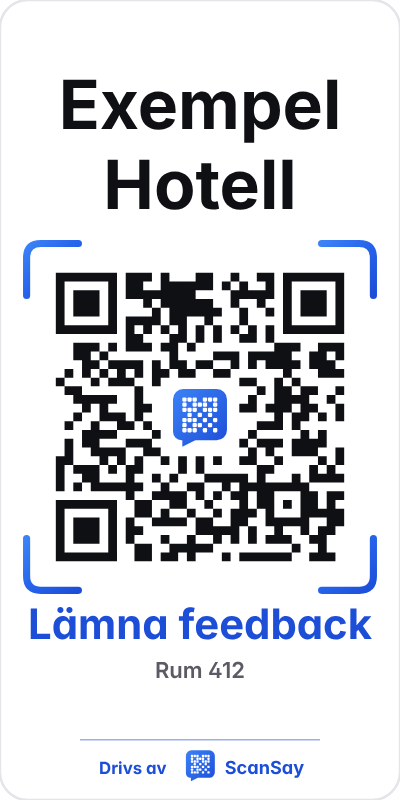
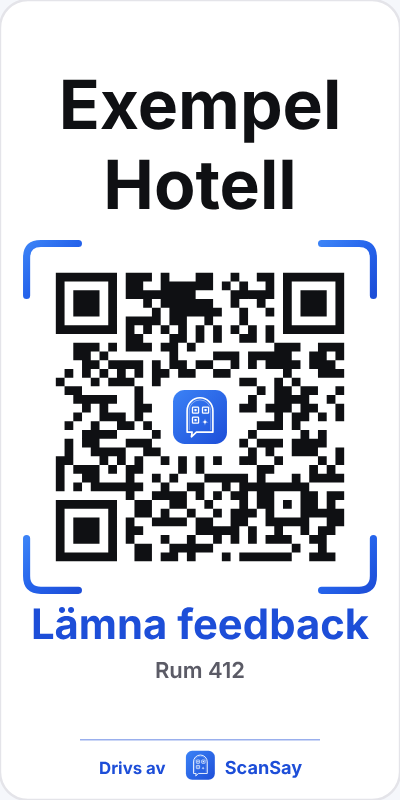
Add files via upload

diff --git a/form/index.html b/form/index.html
@@ -188,10 +188,10 @@ body.senior .scale button svg{width:54px;height:54px}
 .linkb{background:none;border:0;color:#1D4ED8;font-weight:700;font-size:14.5px;padding:6px 0;cursor:pointer;text-align:left}
 .photo{margin-top:10px}
 .kinds{display:grid;grid-template-columns:repeat(4,1fr);gap:8px;margin:6px 0 4px}.kinds button{display:flex;flex-direction:column;align-items:center;gap:4px;padding:11px 6px;border:1.5px solid #E5E7EB;border-radius:14px;background:#fff;font:inherit;font-weight:700;font-size:13.5px;color:#0A0F1C;cursor:pointer}.kinds button span{font-size:22px;line-height:1}.kinds button.on{border-color:#1D4ED8;background:#EFF6FF;box-shadow:0 0 0 3px rgba(29,78,216,.12)}.scale .rn{display:block;font-size:13px;margin-top:2px;color:#1D4ED8}@media(max-width:380px){.kinds{grid-template-columns:repeat(2,1fr)}}
-</style></head>
+</style><style id="ss-white">html body .bar:not(#q1){background:#FFFFFF!important;color:#0A0F1C!important;border-bottom:1px solid #E6EAF2!important;box-shadow:none!important}html body .bar:not(#q1) #slog{color:#5B6476!important;font-family:"Italiana",Georgia,serif;font-style:normal;letter-spacing:.1em}html body .bar:not(#q1) .lang{background:#F5F7FB!important;border-color:#E1E6F0!important}html body .bar:not(#q1) .lang button{color:#3A4356!important}html body .bar:not(#q1) .lang button.on{background:#1D4ED8!important;color:#fff!important}@font-face{font-family:"Italiana";src:url(../fonts/italiana.woff) format("woff")}</style></head>
 <body>
 <div class="bar"><div class="in">
-  <div class="word"><b class="lrow"><svg class="ssmark" width="30" height="30" viewBox="0 0 64 64" aria-hidden="true"><defs><linearGradient id="qgq14" x1="0" y1="0" x2="1" y2="1"><stop offset="0" stop-color="#3B82F6"/><stop offset="1" stop-color="#1D4ED8"/></linearGradient></defs><path d="M14 2h36a11 11 0 0 1 11 11v33a11 11 0 0 1-11 11H27l-14 7v-7h-1A9 9 0 0 1 3 48V13A11 11 0 0 1 14 2z" fill="url(#qgq14)"/><rect x="13.0" y="11.0" width="4.6" height="4.6" rx="1.2" fill="#FFFFFF"/><rect x="18.5" y="11.0" width="4.6" height="4.6" rx="1.2" fill="#FFFFFF"/><rect x="24.0" y="11.0" width="4.6" height="4.6" rx="1.2" fill="#FFFFFF"/><rect x="13.0" y="16.5" width="4.6" height="4.6" rx="1.2" fill="#FFFFFF"/><rect x="24.0" y="16.5" width="4.6" height="4.6" rx="1.2" fill="#FFFFFF"/><rect x="13.0" y="22.0" width="4.6" height="4.6" rx="1.2" fill="#FFFFFF"/><rect x="18.5" y="22.0" width="4.6" height="4.6" rx="1.2" fill="#FFFFFF"/><rect x="24.0" y="22.0" width="4.6" height="4.6" rx="1.2" fill="#FFFFFF"/><rect x="35.0" y="11.0" width="4.6" height="4.6" rx="1.2" fill="#FFFFFF"/><rect x="40.5" y="11.0" width="4.6" height="4.6" rx="1.2" fill="#FFFFFF"/><rect x="46.0" y="11.0" width="4.6" height="4.6" rx="1.2" fill="#FFFFFF"/><rect x="35.0" y="16.5" width="4.6" height="4.6" rx="1.2" fill="#FFFFFF"/><rect x="46.0" y="16.5" width="4.6" height="4.6" rx="1.2" fill="#FFFFFF"/><rect x="35.0" y="22.0" width="4.6" height="4.6" rx="1.2" fill="#FFFFFF"/><rect x="40.5" y="22.0" width="4.6" height="4.6" rx="1.2" fill="#FFFFFF"/><rect x="46.0" y="22.0" width="4.6" height="4.6" rx="1.2" fill="#FFFFFF"/><rect x="13.0" y="33.0" width="4.6" height="4.6" rx="1.2" fill="#FFFFFF"/><rect x="18.5" y="33.0" width="4.6" height="4.6" rx="1.2" fill="#FFFFFF"/><rect x="24.0" y="33.0" width="4.6" height="4.6" rx="1.2" fill="#FFFFFF"/><rect x="13.0" y="38.5" width="4.6" height="4.6" rx="1.2" fill="#FFFFFF"/><rect x="24.0" y="38.5" width="4.6" height="4.6" rx="1.2" fill="#FFFFFF"/><rect x="13.0" y="44.0" width="4.6" height="4.6" rx="1.2" fill="#FFFFFF"/><rect x="18.5" y="44.0" width="4.6" height="4.6" rx="1.2" fill="#FFFFFF"/><rect x="24.0" y="44.0" width="4.6" height="4.6" rx="1.2" fill="#FFFFFF"/><rect x="35.0" y="33.0" width="4.6" height="4.6" rx="1.2" fill="#FFFFFF"/><rect x="46.0" y="33.0" width="4.6" height="4.6" rx="1.2" fill="#FFFFFF"/><rect x="40.5" y="38.5" width="4.6" height="4.6" rx="1.2" fill="#FFFFFF"/><rect x="35.0" y="44.0" width="4.6" height="4.6" rx="1.2" fill="#FFFFFF"/><rect x="29.5" y="27.5" width="4.6" height="4.6" rx="1.2" fill="#FFFFFF"/><rect x="40.5" y="27.5" width="4.6" height="4.6" rx="1.2" fill="#FFFFFF"/><rect x="29.5" y="38.5" width="4.6" height="4.6" rx="1.2" fill="#FFFFFF"/><rect x="46.0" y="44.0" width="4.6" height="4.6" rx="1.2" fill="#FFFFFF"/><rect x="29.5" y="16.5" width="4.6" height="4.6" rx="1.2" fill="#FFFFFF"/><rect x="18.5" y="27.5" width="4.6" height="4.6" rx="1.2" fill="#FFFFFF"/></svg><span>Scan</span><span class="say">Say</span></b><i id="slog">Skanna. Säg det.</i></div>
+  <div class="word"><b class="lrow"><img class="sslogo" src="../brand/scansay-logo.svg" alt="ScanSay" width="149" height="32"></b><i id="slog">Skanna. Säg det.</i></div>
   <div class="lang" role="group" aria-label="Språk / Language"><button type="button" data-l="sv">SV</button><button type="button" data-l="en">EN</button></div>
 </div></div>
 <div class="wrap">
@@ -235,7 +235,7 @@ window.SSASP=i=>M[i]||D})();
 .asr .st button.on{color:#fff;border-color:transparent}
 .asr .st.v1 button.on{background:#DC2626}.asr .st.v2 button.on{background:#EA580C}.asr .st.v3 button.on{background:#CA8A04}.asr .st.v4 button.on{background:#65A30D}.asr .st.v5 button.on{background:#15803D}
 .kinds button.on{background:#1D4ED8!important;border-color:#1D4ED8!important;color:#fff!important}
-.prog i{background:linear-gradient(90deg,#1D4ED8,#22C55E,#C8F542)!important}
+.prog i{background:linear-gradient(90deg,#1D4ED8,#22C55E,#E4002B)!important}
 .spamn{margin:8px 0 4px;padding:10px 12px;border-radius:12px;background:#FFFBEB;border:1px solid #FDE68A;color:#78350F;font-size:13.5px;line-height:1.45}
 .spamn b{color:#78350F}
 @media(max-width:380px){.asr .st button{width:29px;height:29px;font-size:15px}}
@@ -512,7 +512,7 @@ function render(){
   const head=`<div class="place"><span class="ic">${esc(c.ic)}</span><div><small class="co">${esc(tl(c.c))}${c.g&&tl(c.g)!==tl(c.c)?' · '+esc(tl(c.g)):''}</small><b>${esc(secN)} › ${esc(tl(c.p))}</b><small>${t.today} ${hm}</small></div></div>`;
   if(st.done){$('app').innerHTML=head+`<div class="card done"><div class="ok"><svg width="30" height="30" viewBox="0 0 24 24"><path d="M5 12.5l4.5 4.5L19 7.5" fill="none" stroke="currentColor" stroke-width="2.6" stroke-linecap="round" stroke-linejoin="round"/></svg></div>
     <h1>${st.name.trim()?t.thxn+esc(st.name.trim().split(' ')[0])+'!':t.thx}</h1><p class="lead">${t.got}</p><div class="case">${st.ref}</div><p class="lead">${t.next}</p>${hasMail()?`<p class="lead">${st.copy?t.copied:t.nocopy}<b>${esc(st.email.trim())}</b>${st.copy?'. '+t.copyv:''}</p>${st.vok?`<div class="vok">${t.verified}</div>`:(st.copy?`<button class="ghost" type="button" style="margin:0 0 10px" onclick="showMail()">${t.showm}</button>`:'')}`:`<p class="lead">${t.nomail}</p>`}
-    <button class="ghost" type="button" onclick="reset()">${t.again}</button><div class="pw">${t.pw} <svg class="ssmark" width="16" height="16" viewBox="0 0 64 64" aria-hidden="true" style="vertical-align:-3px;margin-right:4px"><defs><linearGradient id="qgq15" x1="0" y1="0" x2="1" y2="1"><stop offset="0" stop-color="#3B82F6"/><stop offset="1" stop-color="#1D4ED8"/></linearGradient></defs><path d="M14 2h36a11 11 0 0 1 11 11v33a11 11 0 0 1-11 11H27l-14 7v-7h-1A9 9 0 0 1 3 48V13A11 11 0 0 1 14 2z" fill="url(#qgq15)"/><rect x="13.0" y="11.0" width="4.6" height="4.6" rx="1.2" fill="#FFFFFF"/><rect x="18.5" y="11.0" width="4.6" height="4.6" rx="1.2" fill="#FFFFFF"/><rect x="24.0" y="11.0" width="4.6" height="4.6" rx="1.2" fill="#FFFFFF"/><rect x="13.0" y="16.5" width="4.6" height="4.6" rx="1.2" fill="#FFFFFF"/><rect x="24.0" y="16.5" width="4.6" height="4.6" rx="1.2" fill="#FFFFFF"/><rect x="13.0" y="22.0" width="4.6" height="4.6" rx="1.2" fill="#FFFFFF"/><rect x="18.5" y="22.0" width="4.6" height="4.6" rx="1.2" fill="#FFFFFF"/><rect x="24.0" y="22.0" width="4.6" height="4.6" rx="1.2" fill="#FFFFFF"/><rect x="35.0" y="11.0" width="4.6" height="4.6" rx="1.2" fill="#FFFFFF"/><rect x="40.5" y="11.0" width="4.6" height="4.6" rx="1.2" fill="#FFFFFF"/><rect x="46.0" y="11.0" width="4.6" height="4.6" rx="1.2" fill="#FFFFFF"/><rect x="35.0" y="16.5" width="4.6" height="4.6" rx="1.2" fill="#FFFFFF"/><rect x="46.0" y="16.5" width="4.6" height="4.6" rx="1.2" fill="#FFFFFF"/><rect x="35.0" y="22.0" width="4.6" height="4.6" rx="1.2" fill="#FFFFFF"/><rect x="40.5" y="22.0" width="4.6" height="4.6" rx="1.2" fill="#FFFFFF"/><rect x="46.0" y="22.0" width="4.6" height="4.6" rx="1.2" fill="#FFFFFF"/><rect x="13.0" y="33.0" width="4.6" height="4.6" rx="1.2" fill="#FFFFFF"/><rect x="18.5" y="33.0" width="4.6" height="4.6" rx="1.2" fill="#FFFFFF"/><rect x="24.0" y="33.0" width="4.6" height="4.6" rx="1.2" fill="#FFFFFF"/><rect x="13.0" y="38.5" width="4.6" height="4.6" rx="1.2" fill="#FFFFFF"/><rect x="24.0" y="38.5" width="4.6" height="4.6" rx="1.2" fill="#FFFFFF"/><rect x="13.0" y="44.0" width="4.6" height="4.6" rx="1.2" fill="#FFFFFF"/><rect x="18.5" y="44.0" width="4.6" height="4.6" rx="1.2" fill="#FFFFFF"/><rect x="24.0" y="44.0" width="4.6" height="4.6" rx="1.2" fill="#FFFFFF"/><rect x="35.0" y="33.0" width="4.6" height="4.6" rx="1.2" fill="#FFFFFF"/><rect x="46.0" y="33.0" width="4.6" height="4.6" rx="1.2" fill="#FFFFFF"/><rect x="40.5" y="38.5" width="4.6" height="4.6" rx="1.2" fill="#FFFFFF"/><rect x="35.0" y="44.0" width="4.6" height="4.6" rx="1.2" fill="#FFFFFF"/><rect x="29.5" y="27.5" width="4.6" height="4.6" rx="1.2" fill="#FFFFFF"/><rect x="40.5" y="27.5" width="4.6" height="4.6" rx="1.2" fill="#FFFFFF"/><rect x="29.5" y="38.5" width="4.6" height="4.6" rx="1.2" fill="#FFFFFF"/><rect x="46.0" y="44.0" width="4.6" height="4.6" rx="1.2" fill="#FFFFFF"/><rect x="29.5" y="16.5" width="4.6" height="4.6" rx="1.2" fill="#FFFFFF"/><rect x="18.5" y="27.5" width="4.6" height="4.6" rx="1.2" fill="#FFFFFF"/></svg><b>Scan</b><b style="color:#1D4ED8">Say</b></div></div>`;return}
+    <button class="ghost" type="button" onclick="reset()">${t.again}</button><div class="pw">${t.pw} <img class="sslogo" src="../brand/scansay-logo.svg" alt="ScanSay" width="93" height="20"></div></div>`;return}
   const tops=sec.t.map(tl),qq=tl(TP.QUICK(c.s));
   const URG=(c.urgent&&c.urgent.items)||(L==='sv'?['Vatten på golvet','Halkrisk','Rök eller brandlukt','Trasigt och farligt','Någon behöver hjälp','Hot eller bråk']:['Water on the floor','Slip hazard','Smoke or burning smell','Broken and dangerous','Someone needs help','Threats or fighting']);const N=(i,x)=>`<span class="qn">${i}</span>${x}`;
   $('app').innerHTML=head+`<div class="card">
@@ -533,7 +533,7 @@ function render(){
    <label class="lbl sm" for="nm">${t.name} <small>${t.nameh}</small></label><input type="text" id="nm" autocomplete="name" value="${esc(st.name)}" oninput="st.name=this.value;upd()" onblur="chkN()" maxlength="60"><div class="hint" id="nh">${t.nbad}</div>
    <div class="hp" aria-hidden="true"><label>Website <input type="text" id="hpw" name="website" tabindex="-1" autocomplete="off"></label></div>
    <button class="send${st.busy?' busy':''}" id="send" type="button" ${ready()?'':'disabled'} onclick="send()">${st.busy?t.checking:t.send}</button><div class="err ${st.err?'show':''}" id="err">${st.err?esc(t.errs[st.err]||''):''}</div><div class="shield"><svg width="16" height="16" viewBox="0 0 24 24" fill="none" stroke="#1E40AF" stroke-width="2"><path d="M12 3l8 3v6c0 5-3.5 8-8 9-4.5-1-8-4-8-9V6z"/><path d="M8.5 12l2.5 2.5 4.5-5"/></svg>${t.shield}</div>
-   <p class="priv">${t.priv}</p><div class="pw">${t.pw} <svg class="ssmark" width="16" height="16" viewBox="0 0 64 64" aria-hidden="true" style="vertical-align:-3px;margin-right:4px"><defs><linearGradient id="qgq16" x1="0" y1="0" x2="1" y2="1"><stop offset="0" stop-color="#3B82F6"/><stop offset="1" stop-color="#1D4ED8"/></linearGradient></defs><path d="M14 2h36a11 11 0 0 1 11 11v33a11 11 0 0 1-11 11H27l-14 7v-7h-1A9 9 0 0 1 3 48V13A11 11 0 0 1 14 2z" fill="url(#qgq16)"/><rect x="13.0" y="11.0" width="4.6" height="4.6" rx="1.2" fill="#FFFFFF"/><rect x="18.5" y="11.0" width="4.6" height="4.6" rx="1.2" fill="#FFFFFF"/><rect x="24.0" y="11.0" width="4.6" height="4.6" rx="1.2" fill="#FFFFFF"/><rect x="13.0" y="16.5" width="4.6" height="4.6" rx="1.2" fill="#FFFFFF"/><rect x="24.0" y="16.5" width="4.6" height="4.6" rx="1.2" fill="#FFFFFF"/><rect x="13.0" y="22.0" width="4.6" height="4.6" rx="1.2" fill="#FFFFFF"/><rect x="18.5" y="22.0" width="4.6" height="4.6" rx="1.2" fill="#FFFFFF"/><rect x="24.0" y="22.0" width="4.6" height="4.6" rx="1.2" fill="#FFFFFF"/><rect x="35.0" y="11.0" width="4.6" height="4.6" rx="1.2" fill="#FFFFFF"/><rect x="40.5" y="11.0" width="4.6" height="4.6" rx="1.2" fill="#FFFFFF"/><rect x="46.0" y="11.0" width="4.6" height="4.6" rx="1.2" fill="#FFFFFF"/><rect x="35.0" y="16.5" width="4.6" height="4.6" rx="1.2" fill="#FFFFFF"/><rect x="46.0" y="16.5" width="4.6" height="4.6" rx="1.2" fill="#FFFFFF"/><rect x="35.0" y="22.0" width="4.6" height="4.6" rx="1.2" fill="#FFFFFF"/><rect x="40.5" y="22.0" width="4.6" height="4.6" rx="1.2" fill="#FFFFFF"/><rect x="46.0" y="22.0" width="4.6" height="4.6" rx="1.2" fill="#FFFFFF"/><rect x="13.0" y="33.0" width="4.6" height="4.6" rx="1.2" fill="#FFFFFF"/><rect x="18.5" y="33.0" width="4.6" height="4.6" rx="1.2" fill="#FFFFFF"/><rect x="24.0" y="33.0" width="4.6" height="4.6" rx="1.2" fill="#FFFFFF"/><rect x="13.0" y="38.5" width="4.6" height="4.6" rx="1.2" fill="#FFFFFF"/><rect x="24.0" y="38.5" width="4.6" height="4.6" rx="1.2" fill="#FFFFFF"/><rect x="13.0" y="44.0" width="4.6" height="4.6" rx="1.2" fill="#FFFFFF"/><rect x="18.5" y="44.0" width="4.6" height="4.6" rx="1.2" fill="#FFFFFF"/><rect x="24.0" y="44.0" width="4.6" height="4.6" rx="1.2" fill="#FFFFFF"/><rect x="35.0" y="33.0" width="4.6" height="4.6" rx="1.2" fill="#FFFFFF"/><rect x="46.0" y="33.0" width="4.6" height="4.6" rx="1.2" fill="#FFFFFF"/><rect x="40.5" y="38.5" width="4.6" height="4.6" rx="1.2" fill="#FFFFFF"/><rect x="35.0" y="44.0" width="4.6" height="4.6" rx="1.2" fill="#FFFFFF"/><rect x="29.5" y="27.5" width="4.6" height="4.6" rx="1.2" fill="#FFFFFF"/><rect x="40.5" y="27.5" width="4.6" height="4.6" rx="1.2" fill="#FFFFFF"/><rect x="29.5" y="38.5" width="4.6" height="4.6" rx="1.2" fill="#FFFFFF"/><rect x="46.0" y="44.0" width="4.6" height="4.6" rx="1.2" fill="#FFFFFF"/><rect x="29.5" y="16.5" width="4.6" height="4.6" rx="1.2" fill="#FFFFFF"/><rect x="18.5" y="27.5" width="4.6" height="4.6" rx="1.2" fill="#FFFFFF"/></svg><b>Scan</b><b style="color:#1D4ED8">Say</b></div></div>`;
+   <p class="priv">${t.priv}</p><div class="pw">${t.pw} <img class="sslogo" src="../brand/scansay-logo.svg" alt="ScanSay" width="93" height="20"></div></div>`;
 }
 function upd(){$('send').disabled=!ready();const tv=SSG.text(st.msg),th=$('th');if(th){th.textContent=st.msg.trim().length>2&&!tv.ok?(T[L].tbad[tv.reason]||''):'';th.classList.toggle('show',!!th.textContent)}if(okName(st.name)){$('nm').classList.remove('bad');$('nh').classList.remove('show')}const p=document.querySelector('.prog i');if(p)p.style.width=progress()+'%';if(okMail(st.email)){$('em').classList.remove('bad');$('eh').classList.remove('show')}}
 function chk(){const r=SSG.email(st.email),t=T[L],es=$('es');es.classList.remove('show');
